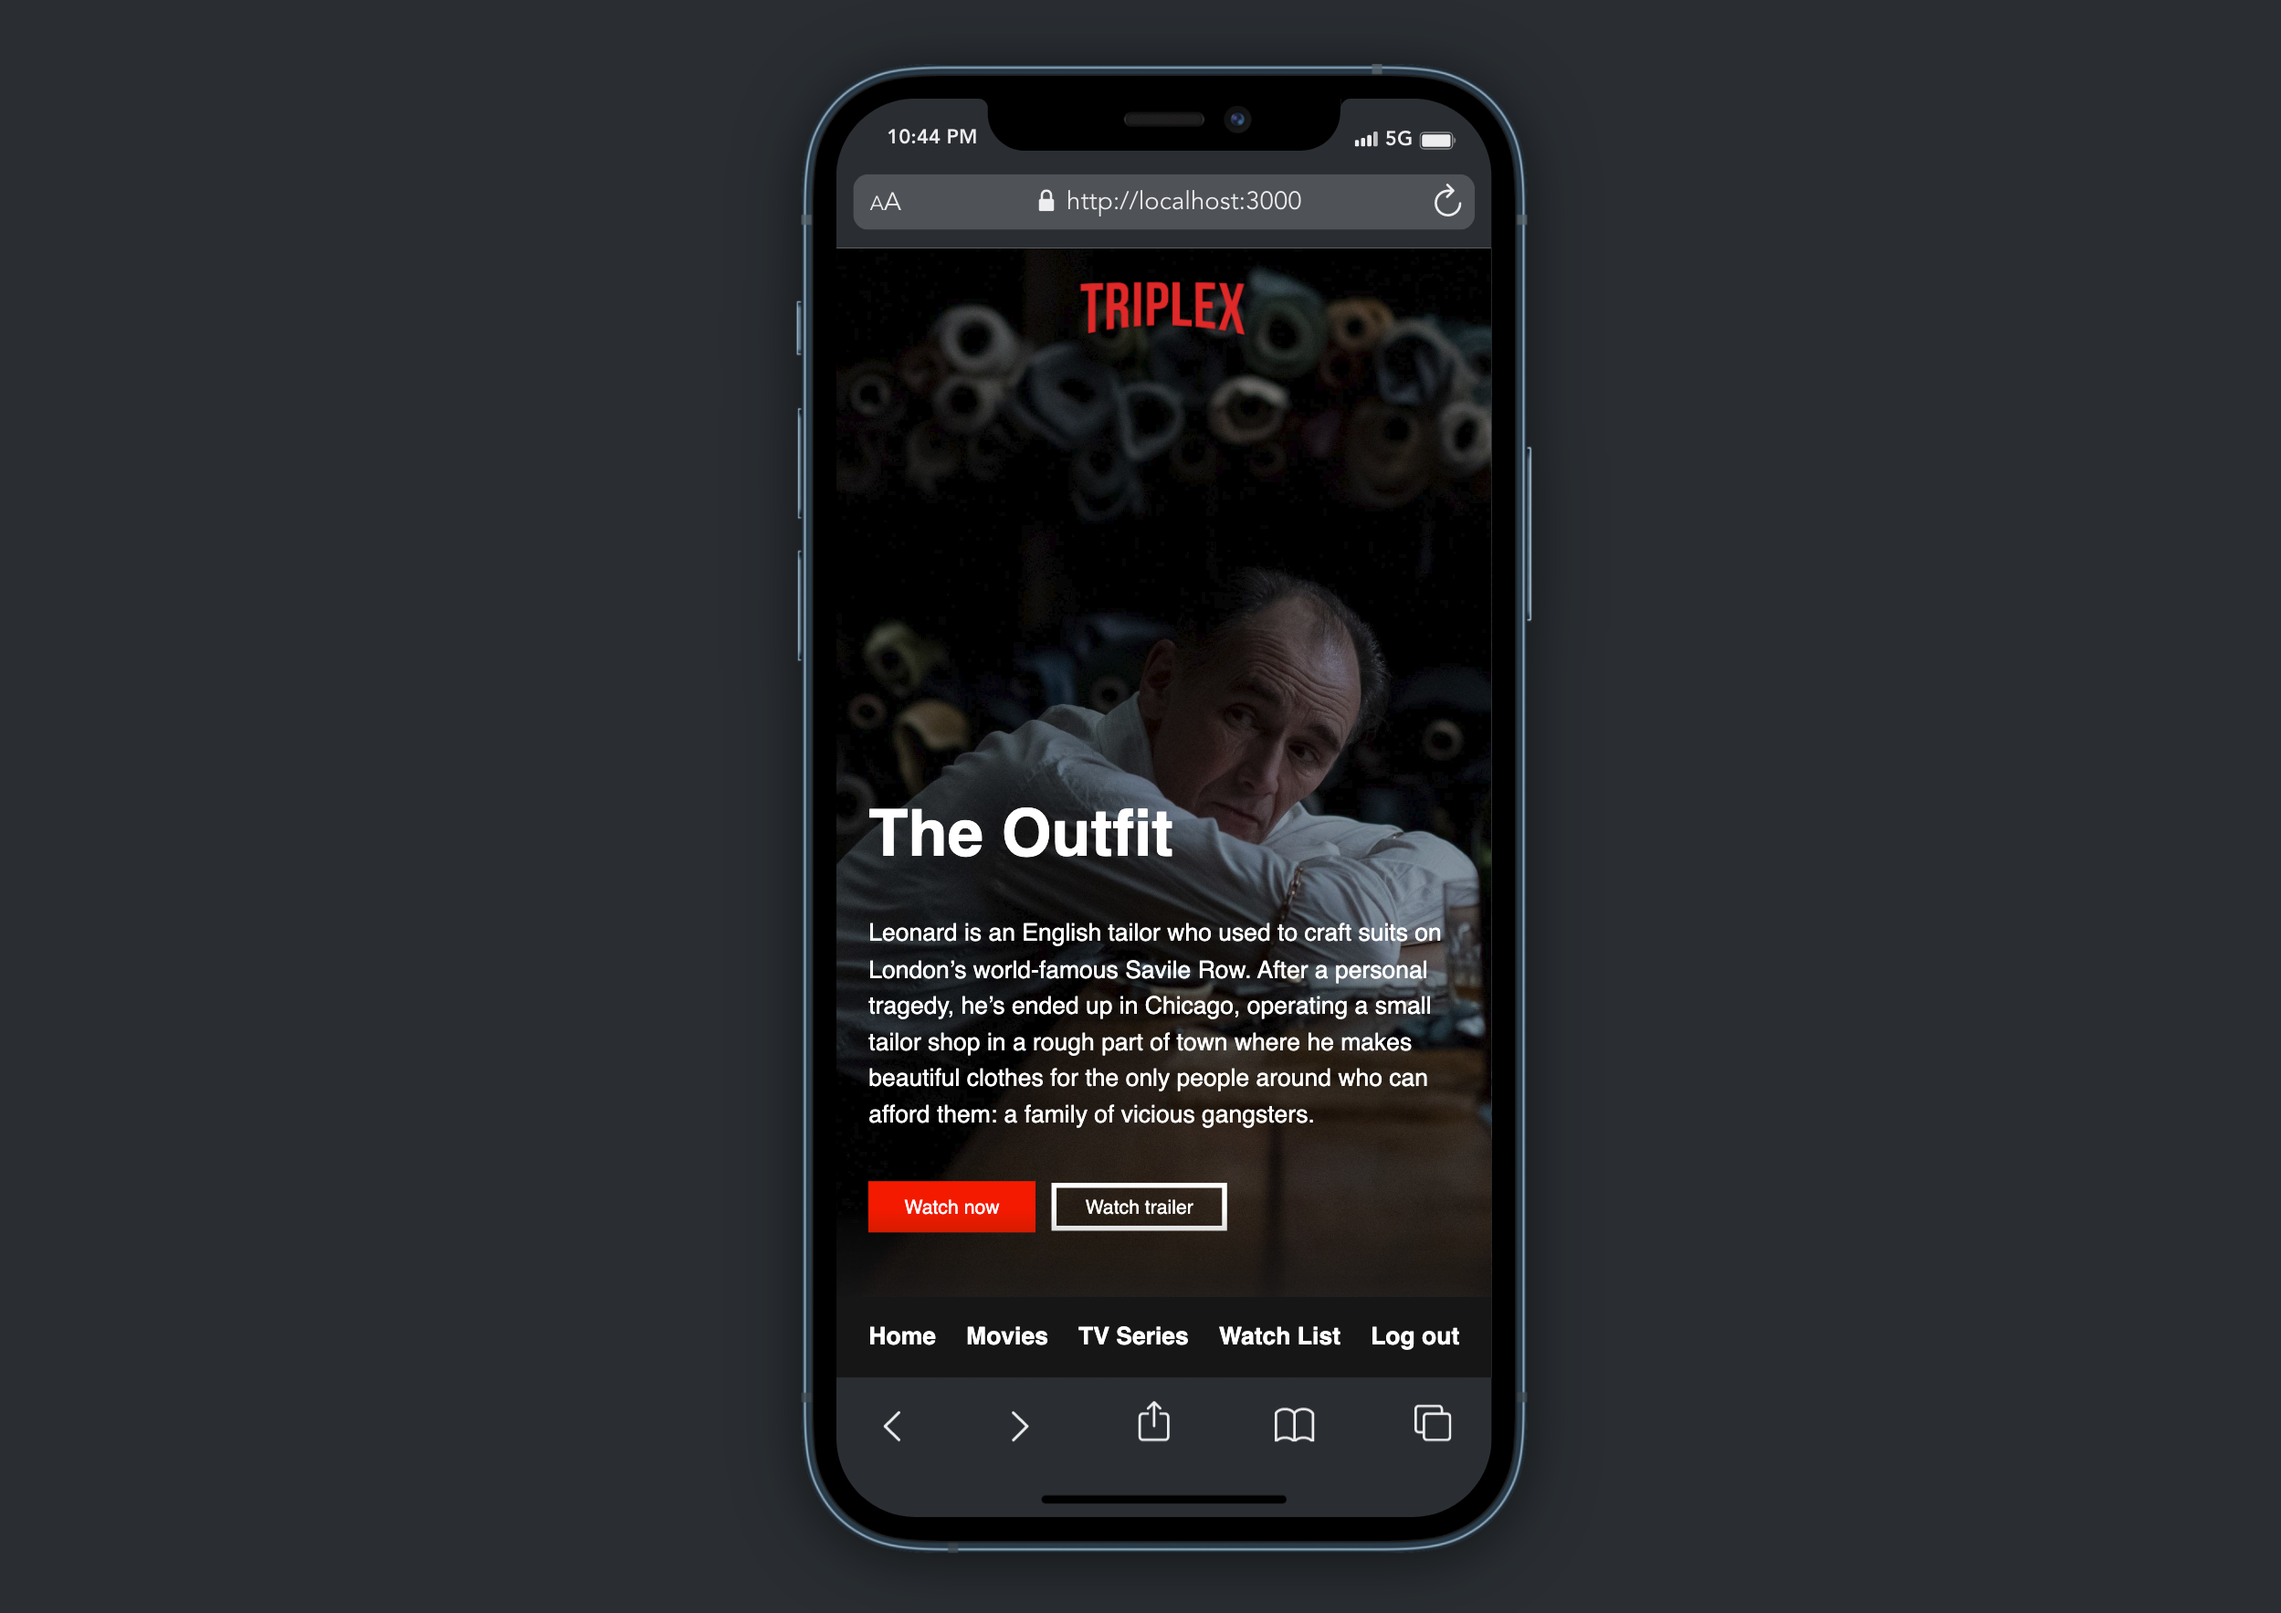
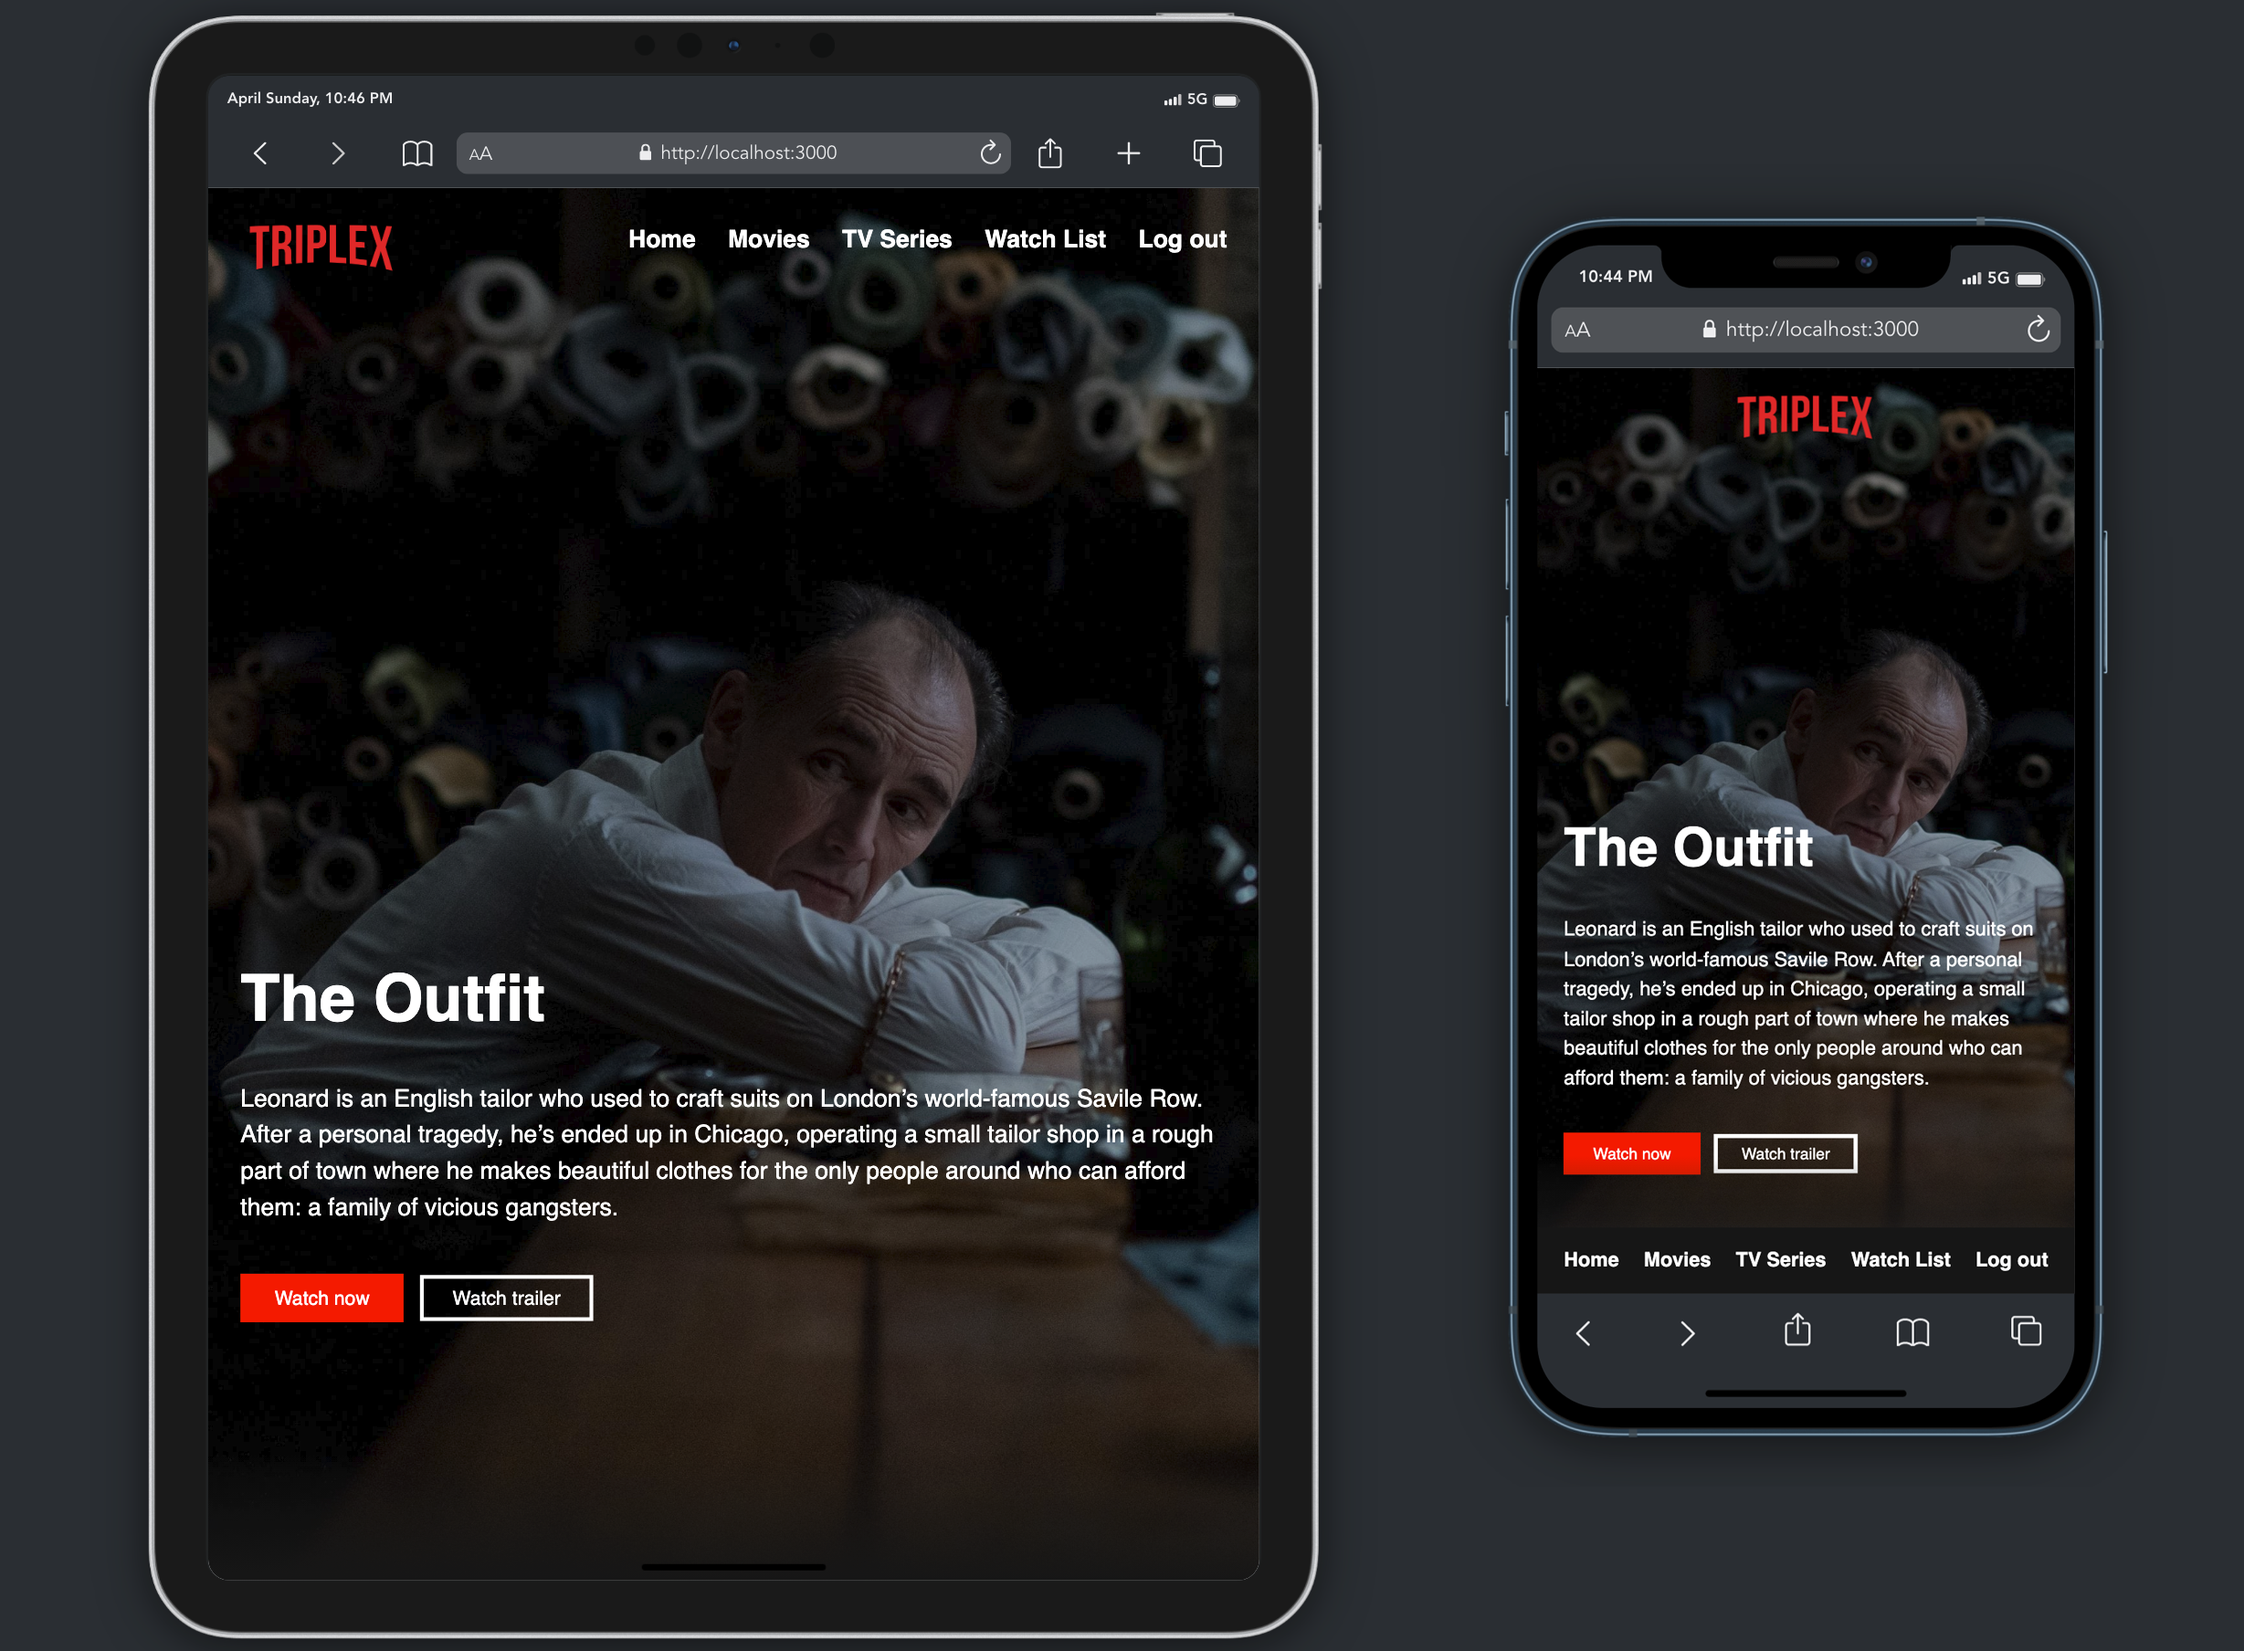
Update readme

diff --git a/README.md b/README.md
@@ -6,11 +6,7 @@ A Netflix inspired movie app with cool features.
 
 ## Full Responsive Design:
 
-!["Screenshot of responsive design"](https://github.com/davincecode/triplex-movie-streaming/blob/e5fd638a1d452a633d9c952febd44d8658126df2/planning/screenshots/tablet.png)
-
-### Mobile friendly design.
-
-!["Screenshot of mobile"](https://github.com/davincecode/triplex-movie-streaming/blob/e5fd638a1d452a633d9c952febd44d8658126df2/planning/screenshots/mobile.png)
+!["Screenshot of responsive design"](https://github.com/davincecode/triplex-movie-streaming/blob/e5fd638a1d452a633d9c952febd44d8658126df2/planning/screenshots/mobile.png)
 
 - **Watch List**: Watch movies, tv shows, and people's videos later.
   !["Screenshot of responsive design"](https://github.com/davincecode/triplex-movie-streaming/blob/e5fd638a1d452a633d9c952febd44d8658126df2/planning/screenshots/watchlist.png)
